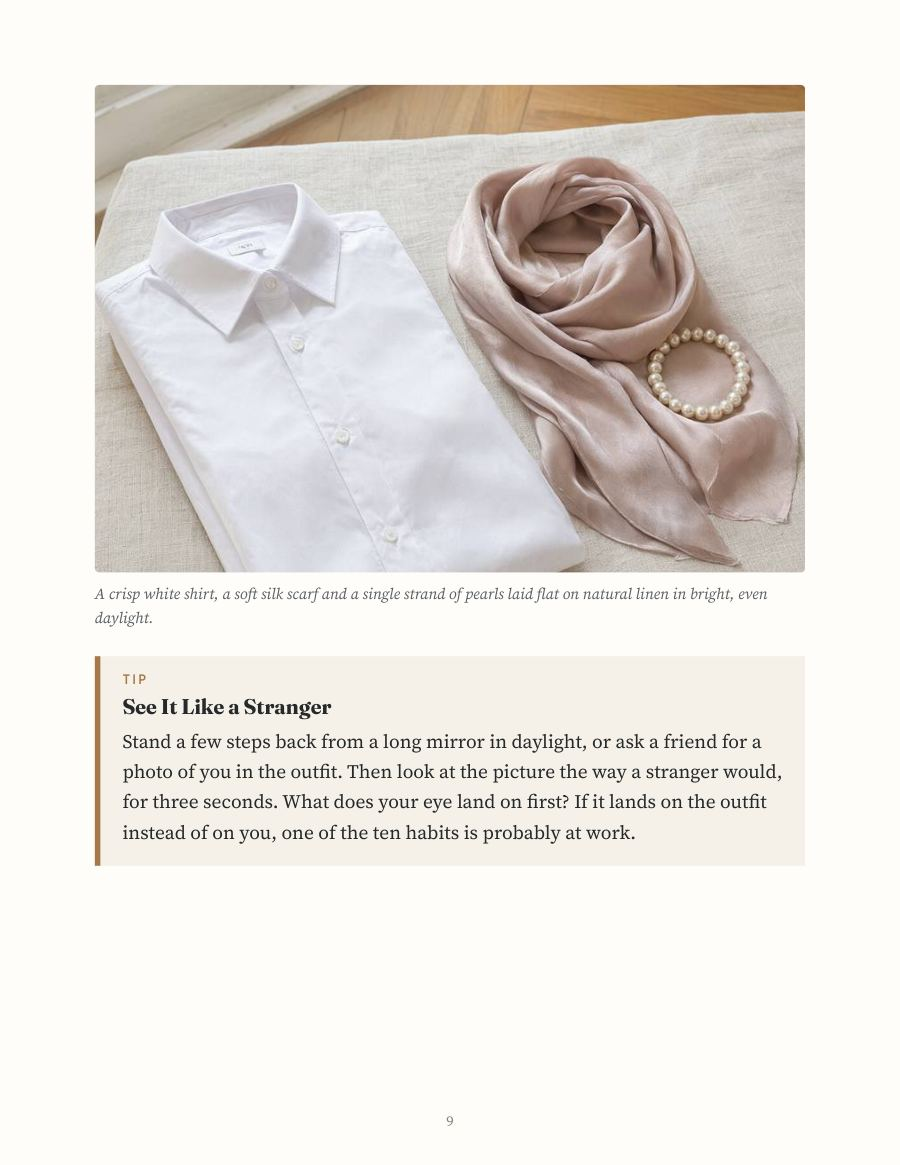
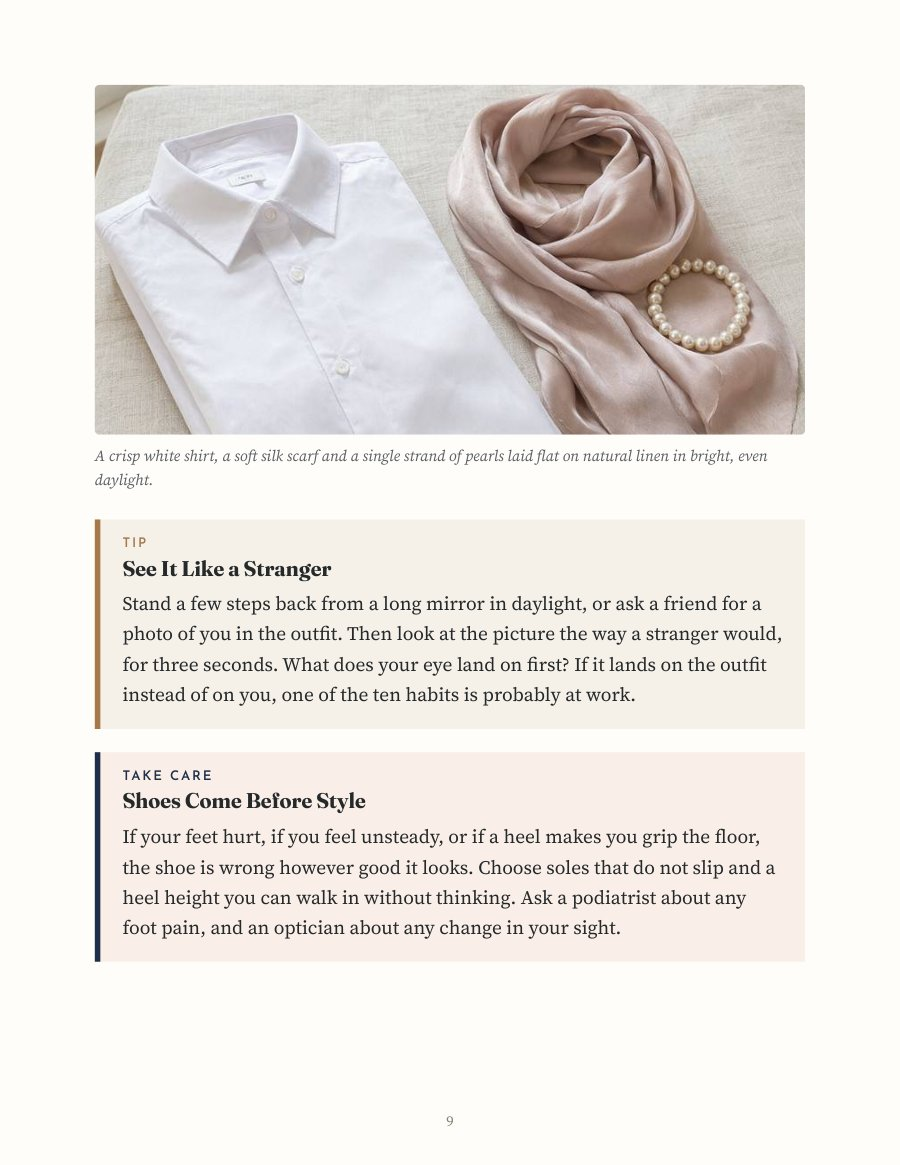
French Wardrobe look: Look Inside slides use the 73-page final (pages 4, 9, 16, 34, 40, 60, 64, 73)

Changed region(s): [[0.0933, 0.0618, 0.9022, 0.8343]]

diff --git a/cloud-apps/homeguidepress/src/looks/paris.js b/cloud-apps/homeguidepress/src/looks/paris.js
@@ -12,12 +12,12 @@ const A = '/looks/paris/';
 const SLIDES = [
   [9, 'See it like a stranger', 'A photograph and a tip: step back from a long mirror and look for three seconds.'],
   [4, 'Contents', 'Twelve chapters in four parts, from the closet you have to the day you have.'],
-  [17, 'The fit check', 'Ten checks in one long mirror, from the shoulder seam to the trouser hem.'],
-  [38, 'The capsule', 'Twelve to fifteen pieces that all go together can dress you for weeks.'],
-  [46, 'Your colors', 'The color right under your chin, tested in daylight before you trust it.'],
-  [68, 'Step by step', 'Scarf ties in numbered steps. Try each one once, then keep the two you like.'],
-  [75, 'Real days', 'A belted raincoat by the door, and the outfit laid out the night before.'],
-  [82, 'Before I buy', 'The checklist to take shopping, and a last word from Claudine.'],
+  [16, 'The fit check', 'Ten checks in one long mirror, from the shoulder seam to the trouser hem.'],
+  [34, 'The capsule', 'Twelve to fifteen pieces that all go together can dress you for weeks.'],
+  [40, 'Your colors', 'The color right under your chin, tested in daylight before you trust it.'],
+  [60, 'Step by step', 'Scarf ties in numbered steps. Try each one once, then keep the two you like.'],
+  [64, 'Real days', 'A belted raincoat by the door, and the outfit laid out the night before.'],
+  [73, 'Before I buy', 'The checklist to take shopping, and a last word from Claudine.'],
 ];
 
 const FACTS = [
